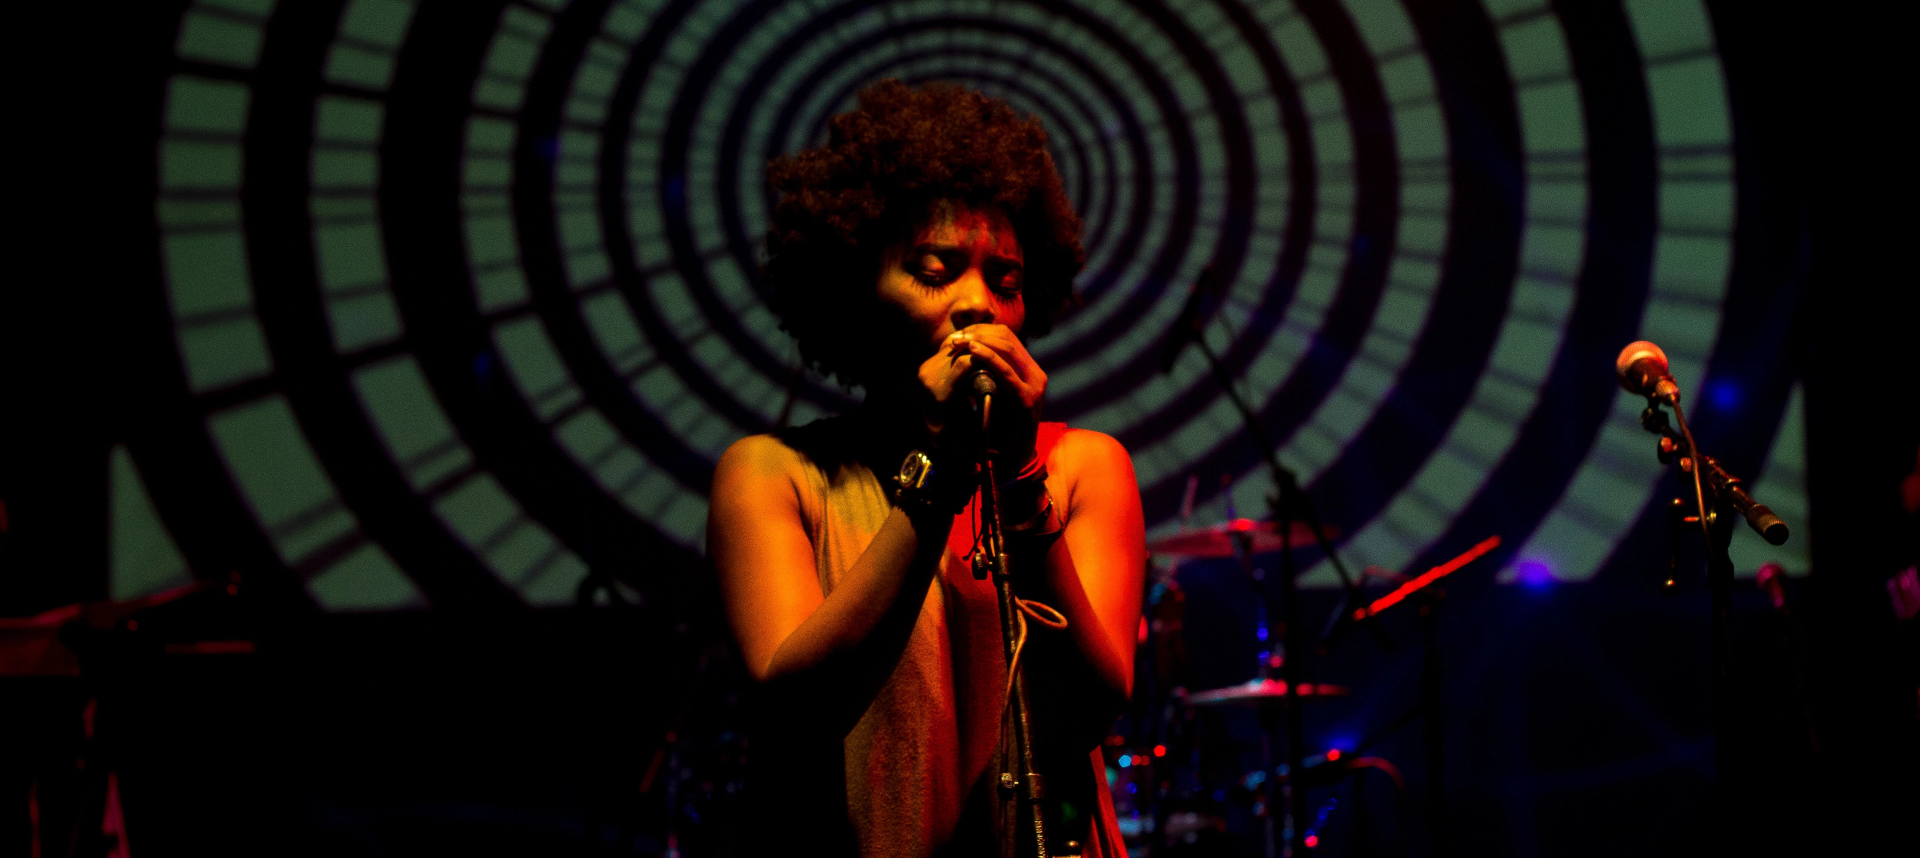
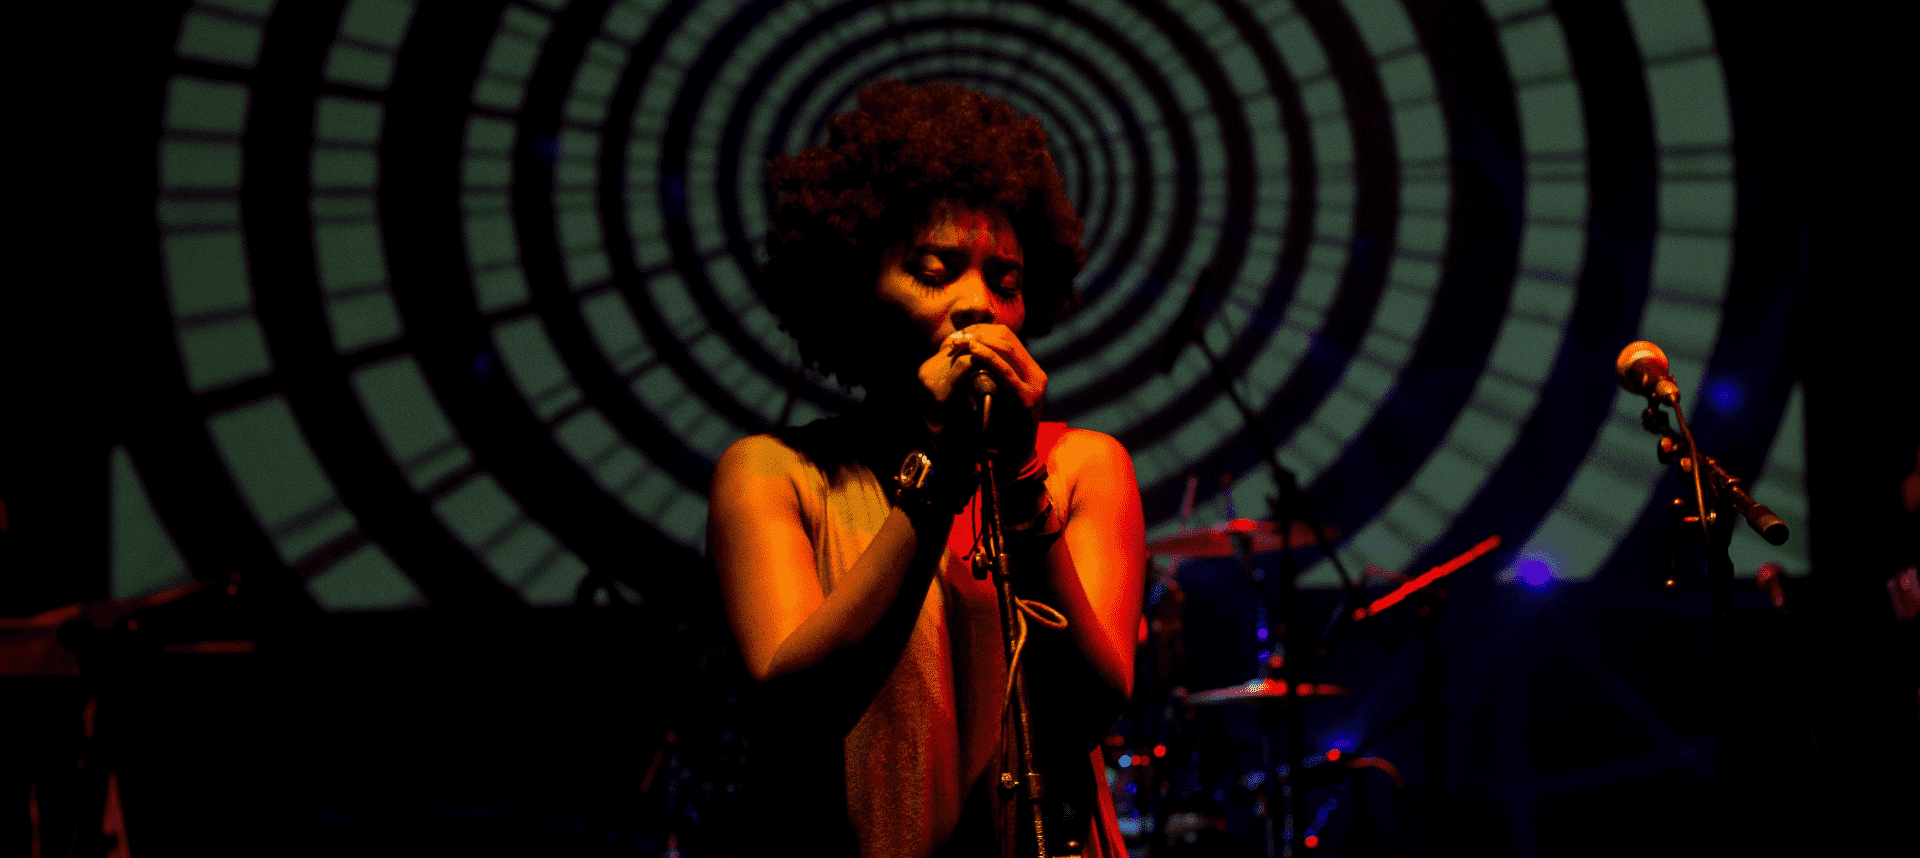
increased image size in blogs detail

diff --git a/src/components/HowWeGotStarted.jsx b/src/components/HowWeGotStarted.jsx
@@ -30,11 +30,11 @@ const HowWeGotStarted = () => {
             </Grid>
 
             <Grid container sx={{ position: 'relative', bottom: '200px', m: 3, p: 3 }} justifyContent='center' alignItems='center'>
-                <Grid item lg={2}  sx={{  my: 2 }}>
-                    <img style={{ width : 100}} src={cncm_white} alt='Logo'/>
+                <Grid item lg={2} sx={{ my: 2 }}>
+                    <img style={{ width: 100 }} src={cncm_white} alt='Logo' />
                 </Grid>
 
-                <Grid item lg={6}  sx={{ px: 5 }}>
+                <Grid item lg={6} sx={{ px: 5 }}>
                     <Typography sx={{ color: '#1DEF55', fontSize: 24, fontWeight: 'bold' }}>HOW WE STARTED</Typography>
                     <Typography sx={{ color: '#6B6B6B', fontSize: 37, fontWeight: 'bold' }}>How We Got CNCM here?</Typography>
                     <Typography sx={{ color: '#FFFFFF', fontSize: 16 }}>CNCM's mission is to be the focal point for education and advocacy of copyright and neighboring rights, to provide a community for those working in this segment of industries.</Typography>
@@ -42,7 +42,7 @@ const HowWeGotStarted = () => {
                     <Typography sx={{ color: '#FFFFFF', fontSize: 16, mt: 3 }}>Although the Rome Treaty has enabled neighbouring and related rights to be a source of income for performers living in any country that has been a signatory since 1961, this income stream has always played second fiddle to copyright owners (labels)</Typography>
                 </Grid>
 
-                <Grid item lg={3}  sx={{ px: 5, mt: 2 }} >
+                <Grid item lg={3} sx={{ px: 5, mt: 2 }} >
                     <Typography sx={{ fontSize: 40, fontWeight: 'bold', color: 'white' }}>16 <span style={{ fontSize: 20, fontWeight: 'bold', color: 'white' }}>Individuals</span> </Typography>
                     <Typography sx={{ fontSize: 16, fontWeight: 'bold', color: '#1DEF55', mb: 1 }} >LEGAL FIRM MEMBERS</Typography>
 

diff --git a/src/screens/BlogDetailWordress.jsx b/src/screens/BlogDetailWordress.jsx
@@ -14,6 +14,7 @@ const BloggerDetailWordpress = () => {
     const theme = useTheme()
     const query = useMediaQuery(theme.breakpoints.down(700))
     const [commentText, setCommentText] = useState('')
+    const [sendingComment, setSendingComment] = useState(false)
     const { user, active } = useAuth()
 
     const [image, setImage] = useState()
@@ -27,7 +28,7 @@ const BloggerDetailWordpress = () => {
             fetchComments(selectedBlog.id).then(res => {
                 setComments(res)
             })
-            getImageUrl(selectedBlog.featured_media).then(res => {
+            getImageUrl(selectedBlog.featured_media, true).then(res => {
                 setImage(res)
             })
             getAuthorName(selectedBlog.author).then(res => {
@@ -40,10 +41,12 @@ const BloggerDetailWordpress = () => {
     }, [selectedBlog])
 
     const handleComment = async ({ post, author_name, author_email, content }) => {
+        setSendingComment(true)
         const success = await addComments({ post, author_name, author_email, content })
         fetchComments(selectedBlog.id).then(res => {
             setComments(res)
         })
+        setSendingComment(false)
         setCommentText('')
     }
 
@@ -92,9 +95,8 @@ const BloggerDetailWordpress = () => {
                         </FormControl>
                     </Grid>
 
-                    <Button onClick={() => {
-                        console.log();
-                        handleComment({ post: selectedBlog.id, author_name: user.displayName || 'Anonymous', content: commentText, author_email: user.email || "" });
+                    <Button disabled={sendingComment} onClick={() => {
+                        handleComment({ post: selectedBlog.id, author_name: user.name || 'Anonymous', content: commentText, author_email: user.email || "" });
                     }} variant='text'>Comment</Button>
                 </Grid>
             </Box>}

diff --git a/src/components/BlogCardWordpress.jsx b/src/components/BlogCardWordpress.jsx
@@ -1,4 +1,4 @@
-import { Typography, Grid, Avatar, Button, Divider } from '@mui/material'
+import { Typography, Grid, Avatar, Button, Divider, useTheme, useMediaQuery } from '@mui/material'
 import parse from 'html-react-parser'
 import moment from 'moment'
 import { useState } from 'react'
@@ -8,6 +8,9 @@ import { BlogContext } from '../contexts/blogcontext'
 import { getAuthorName, getImageUrl } from '../controllers/wordpress/posts'
 
 const BlogCardWordpress = ({ blog }) => {
+
+    const theme = useTheme()
+    const query = useMediaQuery(theme.breakpoints.down(700))
 
     const [image, setImage] = useState()
     const [author, setAuthor] = useState()
@@ -61,7 +64,7 @@ const BlogCardWordpress = ({ blog }) => {
                 </Grid>
             </Grid>
             <Grid sx={{ pl: 3 }} item sm={12} lg={4}>
-                <img style={{ borderRadius: 5 }} height={150} src={image} alt='Blog' />
+                <img style={{ borderRadius: 5, }} height={query ? 200 : 150} src={image} alt='Blog' />
             </Grid>
             <Grid item sm={12} lg={12} md={12} >
                 <Divider />

diff --git a/src/components/SuggestedCard.jsx b/src/components/SuggestedCard.jsx
@@ -24,11 +24,12 @@ const SuggestedCard = ({ blog }) => {
 
         }
     }, [selectedBlog])
-    return (<div onClick={() => {
+    return (<div style={{marginBottom : 20}} onClick={() => {
         setSelectedBlog(blog)
         navigate('/blogs-wp')
     }} >
-        <Grid container sx={{ mb: 4, cursor: 'pointer' }}>
+
+        <Grid container sx={{cursor: 'pointer' }}>
             <Grid container alignItems='center'>
                 <Grid item sx={{ mx: 1 }}>
                     <Typography sx={{ fontSize: 13, color: '#444', fontWeight: 'bold' }} >{author}</Typography>
@@ -39,9 +40,10 @@ const SuggestedCard = ({ blog }) => {
             </Grid>
 
             <Typography sx={{ fontSize: 14, color: '#444', fontWeight: 'bold', m: 1 }}>{blog.title.rendered}</Typography>
-            <Divider />
+            
 
         </Grid>
+        <Divider color='white' />
     </div>)
 }
 

diff --git a/src/screens/Blogs.jsx b/src/screens/Blogs.jsx
@@ -46,7 +46,7 @@ const BlogsPage = () => {
                 {!loading && blogs && <Grid item sm={12} lg={3} sx={{ p: 5 }}>
                     <Box sx={{ p: 2, backgroundColor: '#f5f5f5', borderRadius: 1 }} >
                         <Typography sx={{ fontWeight: 'bold', fontSize: 17, color: kGreenColor, m: 1 }} >Suggestion</Typography>
-                        <Divider />
+                        {/* <Divider /> */}
 
                         {blogs.map((blog) => {
                             return (

diff --git a/src/controllers/wordpress/posts.js b/src/controllers/wordpress/posts.js
@@ -27,9 +27,9 @@ export const addComments = async ({ post, author_name, author_email, content }) 
 
 }
 
-export const getImageUrl = async (id) => {
+export const getImageUrl = async (id, large = false) => {
     const mediaResult = await axios.get(`${BASE_URL}/media/${id}`)
-    return mediaResult.data.media_details.sizes.medium.source_url
+    return large ? mediaResult.data.guid.rendered : mediaResult.data.media_details.sizes.medium.source_url
 }
 
 export const getAuthorName = async (id) => {

diff --git a/src/utils/urls.js b/src/utils/urls.js
@@ -1,1 +1,1 @@
-export const BASE_URL = 'http://ride8294.2f-capital.com/wp-json/wp/v2';
+export const BASE_URL = 'https://ride8294.2f-capital.com/wp-json/wp/v2';
